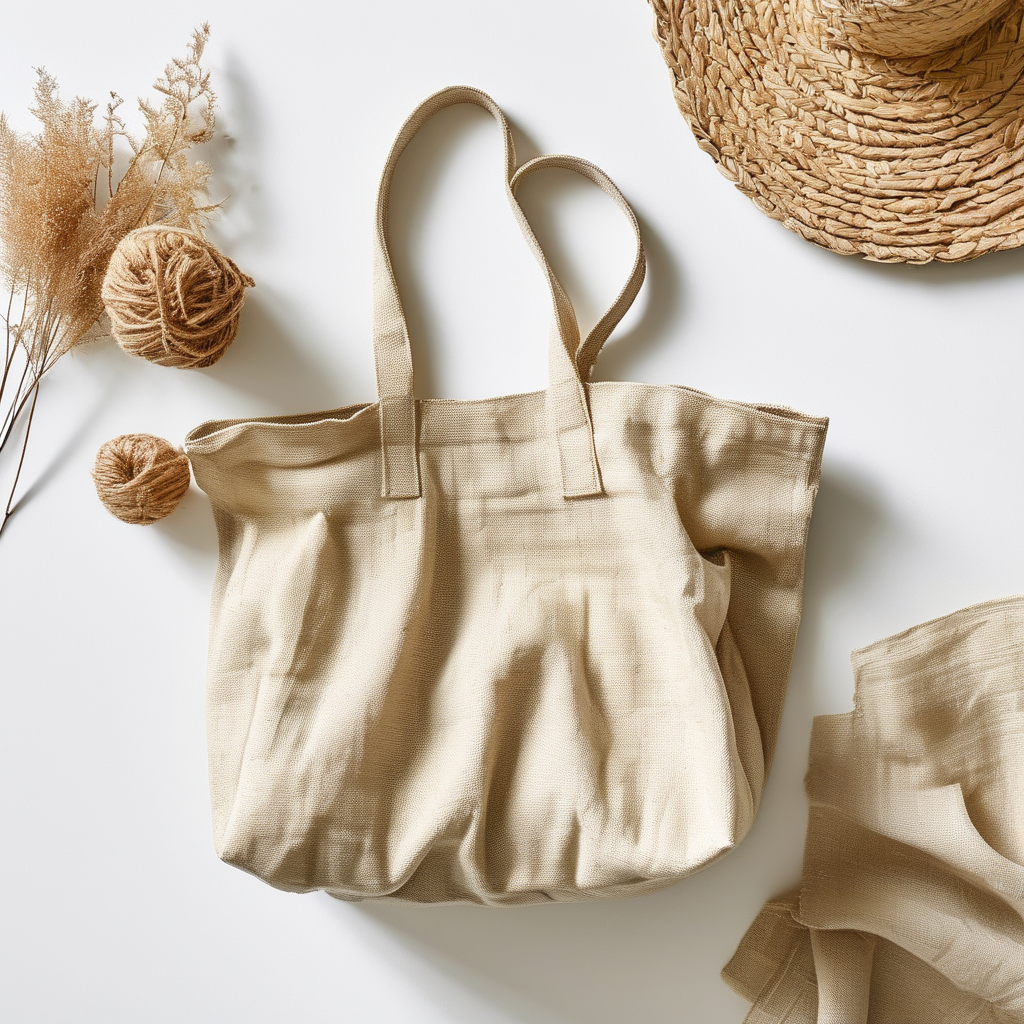
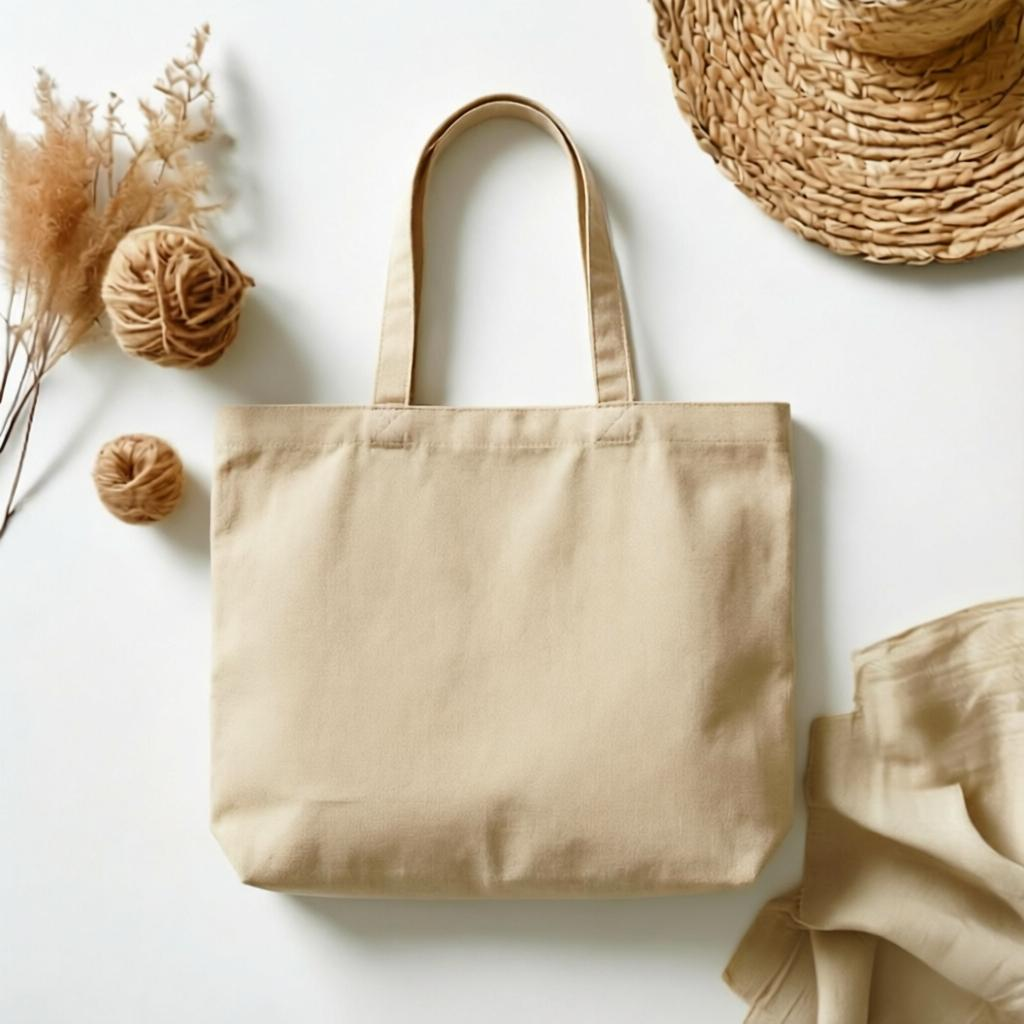
feat: 替换 Tote Bag 新模板 + 重新配置三个印刷 zone
- 替换 totebag.png 为新的空白平整模板
- front-main: (0.30,0.50) 0.37×0.30
- side-small: (0.60,0.50) 0.16×0.20
- bottom-trapezoid: perspective-quad
  tl=(0.200,0.80) tr=(0.7725,0.80)
  bl=(0.232,0.86) br=(0.735,0.86)

diff --git a/src/lib/totem-mapping.ts b/src/lib/totem-mapping.ts
@@ -192,7 +192,7 @@ export const PRODUCT_CONFIGS: Record<ProductType, ProductConfig> = {
         label: { zh: '正面主图', en: 'Front Main' },
         meaning: { zh: '醒目位置，图腾第一眼就能传递你的文化态度', en: 'Eye-level placement — your totem speaks before you do' },
         x: 0.30, y: 0.50,
-        width: 0.40, height: 0.23,
+        width: 0.37, height: 0.30,
         cornerRatio: 0.12,
         shape: 'rect',
       },
@@ -200,8 +200,8 @@ export const PRODUCT_CONFIGS: Record<ProductType, ProductConfig> = {
         id: 'side-small',
         label: { zh: '侧面小图', en: 'Side Small' },
         meaning: { zh: '侧边精致印记，细节处见格调', en: 'A refined touch on the side — style in the details' },
-        x: 0.70, y: 0.52,
-        width: 0.078, height: 0.15,
+        x: 0.60, y: 0.50,
+        width: 0.16, height: 0.20,
         cornerRatio: 0.14,
         shape: 'rect',
       },
@@ -209,15 +209,15 @@ export const PRODUCT_CONFIGS: Record<ProductType, ProductConfig> = {
         id: 'bottom-trapezoid',
         label: { zh: '底部横幅', en: 'Bottom Banner' },
         meaning: { zh: '横贯底部，图腾如同坚实根基，承载你的每一步旅程', en: 'Spanning the base — your totem grounds every journey you take' },
-        x: 0.220, y: 0.77,
-        width: 0.529, height: 0.08,
+        x: 0.20, y: 0.80,
+        width: 0.5725, height: 0.06,
         cornerRatio: 0.12,
         shape: 'perspective-quad',
         quad: {
-          tl: [0.220, 0.77],
-          tr: [0.749, 0.77],
-          bl: [0.255, 0.85],
-          br: [0.713, 0.85],
+          tl: [0.200, 0.80],
+          tr: [0.7725, 0.80],
+          bl: [0.232, 0.86],
+          br: [0.735, 0.86],
         },
       },
     ],
